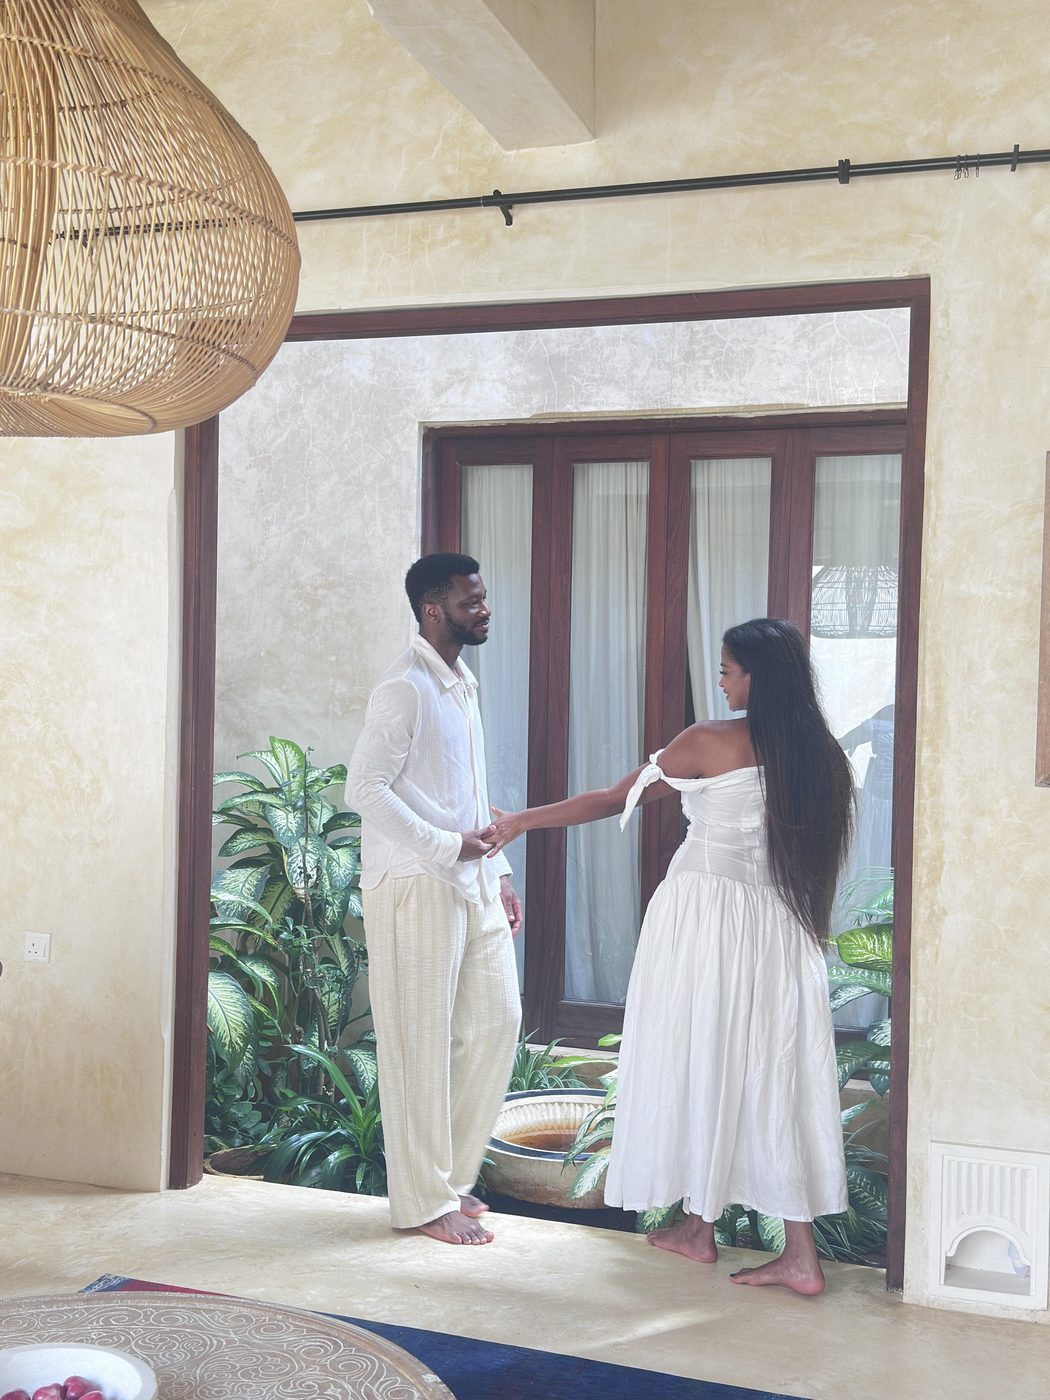
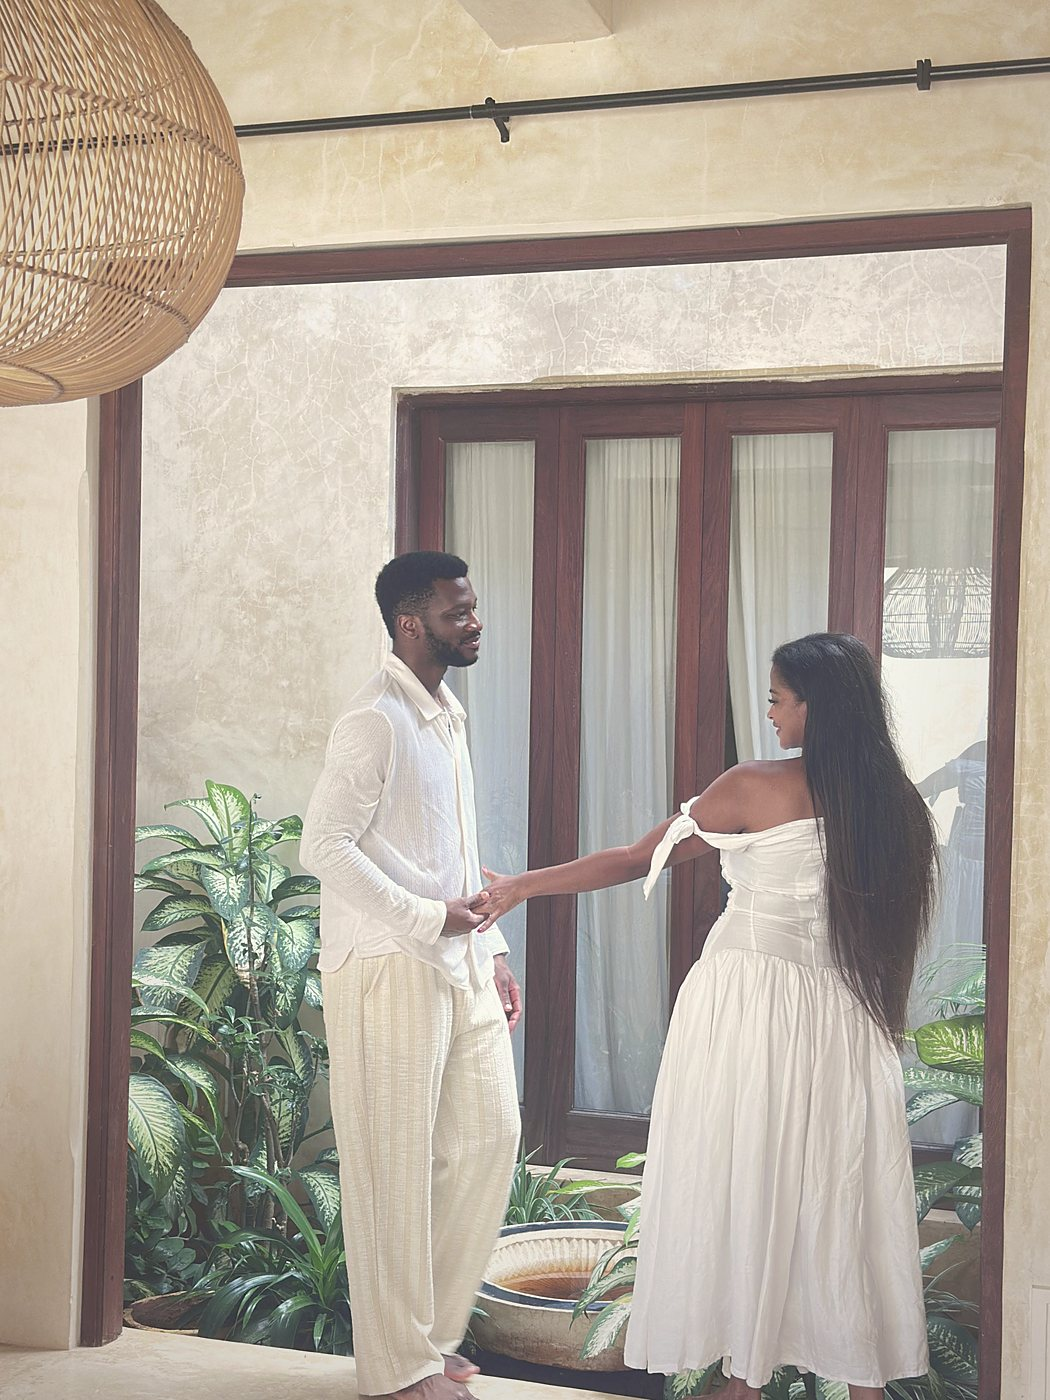
Polish photos with crops, warm grade, and CSS framing
Tighter face-forward crops, a shared cream/burgundy-friendly grade,
muted punchy blues, and object-position pins so hero/story/venue/scratch
keep faces in frame on cover layouts.

diff --git a/src/index.css b/src/index.css
@@ -192,6 +192,7 @@ textarea {
   width: 100%;
   height: 100%;
   object-fit: cover;
+  object-position: 50% 28%;
   transform: scale(1.06);
   animation: hero-drift 18s var(--ease) infinite alternate;
 }
@@ -366,6 +367,7 @@ textarea {
   width: 100%;
   height: 100%;
   object-fit: cover;
+  object-position: 40% 32%;
   animation: soft-zoom 16s var(--ease) infinite alternate;
 }
 
@@ -495,6 +497,7 @@ textarea {
   width: 100%;
   height: 100%;
   object-fit: cover;
+  object-position: center 22%;
 }
 
 .moments {
@@ -525,6 +528,7 @@ textarea {
   width: 100%;
   height: 100%;
   object-fit: cover;
+  object-position: 50% 30%;
 }
 
 .moments-scratch__caption {
@@ -648,6 +652,7 @@ textarea {
   height: 100%;
   min-height: 14rem;
   object-fit: cover;
+  object-position: center 28%;
   transition: transform 700ms var(--ease);
 }
 
